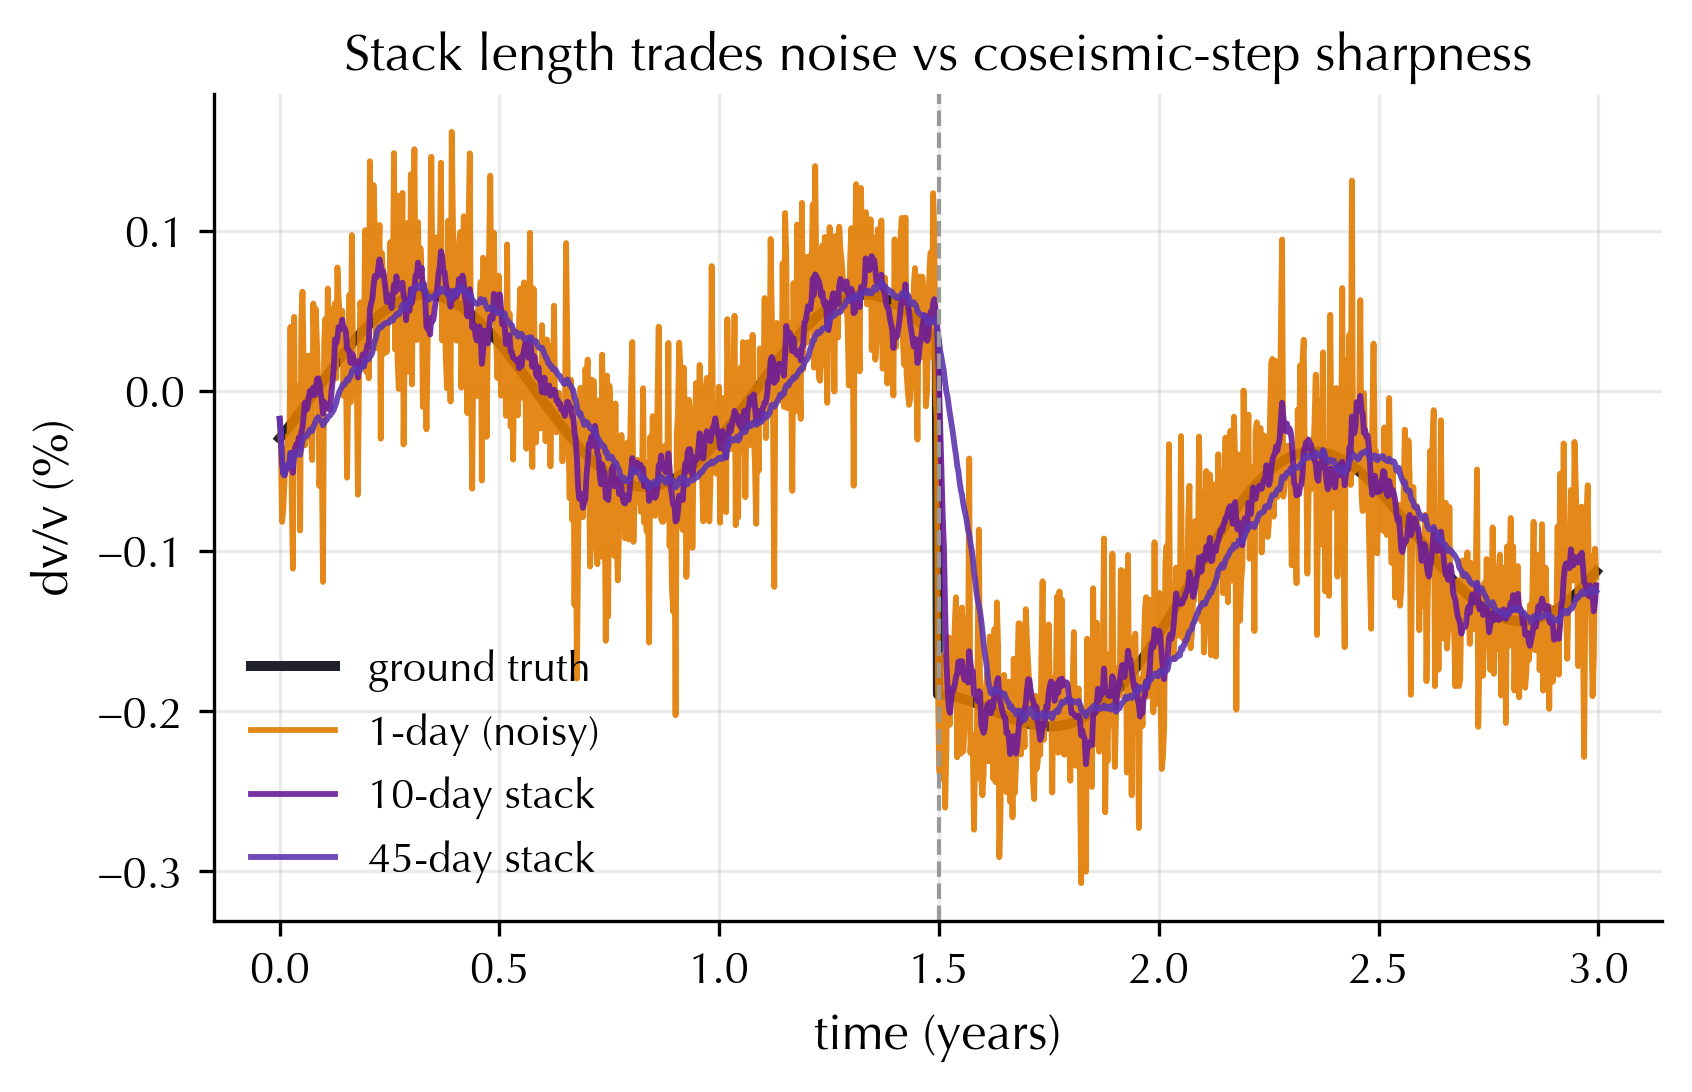
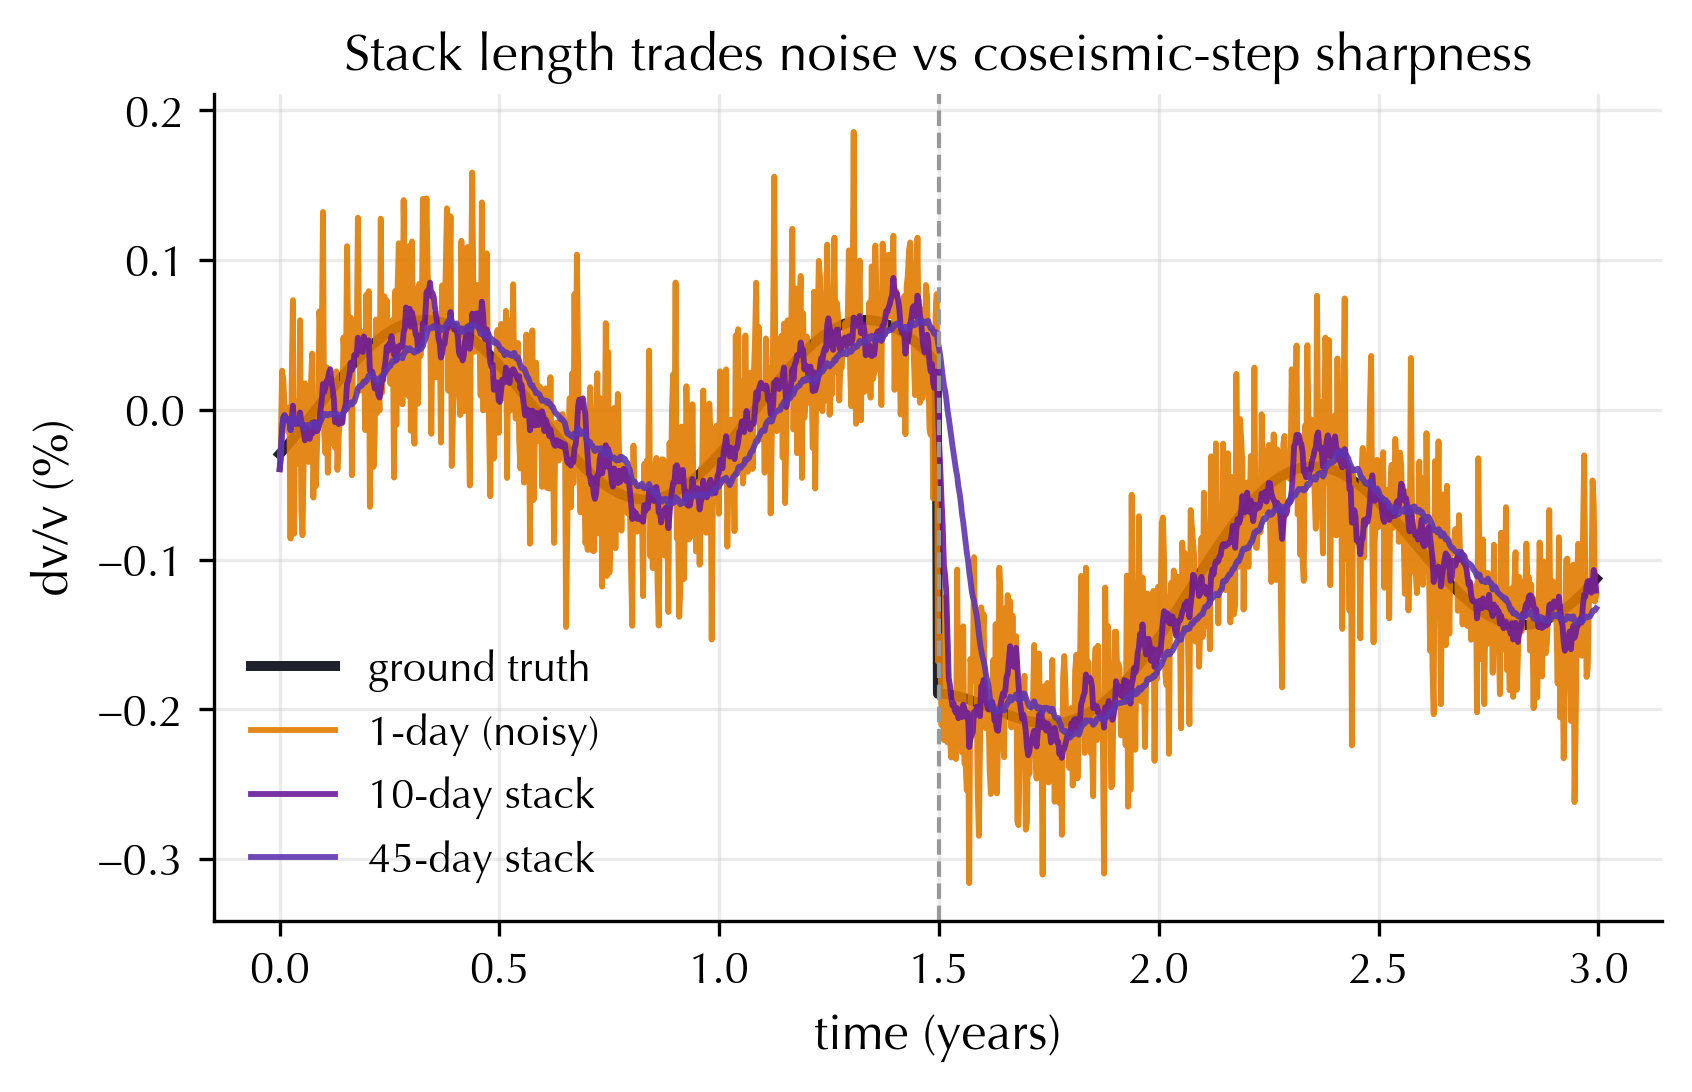
Regenerate all synthetic demo figures under v0.4.0 physical dv/v; re-verify every quantitative claim
Every one of the 15 synthetic demo figures predated the v0.4.0 sign
fix (flagged in PR #37, not fixed there). impose_dvv changed from
t/(1+dvv) to t*(1+dvv) -- a different nonlinear map, not a pure sign
negation -- so regenerating could plausibly change specific numbers,
not just axis labels. Regenerated all 14 figures actually referenced
in the manuscript (literature/synthetic_dvv_demo.py,
codameter.deviations.build_figs, codameter.uq_bayes.build_figs;
demo_9_multiverse.png also regenerated but stays unreferenced/orphaned
as before) and re-derived every quantitative claim tied to them
directly from the current code rather than eyeballing the new plots.

Real changes found and fixed, not just cosmetic:

- Fig. methods (demo_1): the +/-5% sweep now shows genuine sign
  asymmetry for WCC and WTDTW -- WCC tracks the 1:1 line tightly on
  the negative branch but breaks sharply near +5%; WTDTW crosses 1%
  error at +1% true dv/v but only at -3% on the other branch. This is
  real physics from the corrected nonlinear convention, not noise.
  Rewrote the caption and body paragraph with per-branch thresholds
  instead of the old (now false) claim that TS/WTS/WCC "track the 1:1
  line throughout" and that DTW/WTDTW break symmetrically past +/-3-4%.
- Fig. deviations (demo_10) + multiverse text: the deviation ranking
  reordered substantially -- WCS is now catastrophic (~50x baseline,
  not previously flagged this way), baseline RMS moved from ~0.02% to
[…]

diff --git a/paper/manuscript_marine.tex b/paper/manuscript_marine.tex
@@ -548,8 +548,8 @@ its own dedicated synthetic scenario (see the cross-referenced subsection).}
 \toprule
 \textbf{Axis} & \textbf{Best-case RMS} & \textbf{Worst-case RMS} & \textbf{Section} \\
 \midrule
-Estimator (family split) & $<\!0.01\,\%$ (TS/WTS, up to 5\,\% true \dvv) &
-cycle-skip $>\!0.5\,\%$ past $\sim\!1.4\,\%$ true \dvv\ (MWCS) &
+Estimator (family split) & $<\!0.01\,\%$ (TS, up to 5\,\% true \dvv) &
+cycle-skip $>\!0.5\,\%$ past $\sim\!1.5\,\%$ true \dvv\ (MWCS) &
 Section~\ref{sec:methods-fig} \\ \hline
 Cross-component aggregation & $\sim\!0.03\,\%$ (Approach B, averaged images) &
 $\sim\!0.31\,\%$ (Approach A, unweighted) & Section~\ref{sec:aggregation} \\ \hline
@@ -558,8 +558,8 @@ $\sim\!0.05\,\%$ (individual-pair range) & Section~\ref{sec:uncertainty} \\ \hli
 Frequency band & $\sim\!0.003$--$0.03\,\%$ (matched to depth) &
 $\sim\!0.10\,\%$ (mismatched) & Section~\ref{sec:params} \\ \hline
 Coda window & $\sim\!0.01\,\%$ (adapted to band) &
-$\sim\!3.8\,\%$ (fixed, wrong band) & Section~\ref{sec:window} \\ \hline
-Reference scheme & $\sim\!0.03$--$0.04\,\%$ (fixed stack / joint inversion) &
+$\sim\!3.9\,\%$ (fixed, wrong band) & Section~\ref{sec:window} \\ \hline
+Reference scheme & $\sim\!0.03\,\%$ (fixed stack / joint inversion) &
 $\sim\!0.16\,\%$ (60-day moving) & Section~\ref{sec:params} \\ \hline
 Stack length & $\sim\!0.018\,\%$ (10-day) &
 $\sim\!0.044\,\%$ (1-day, noisy) & Section~\ref{sec:params} \\
@@ -598,26 +598,36 @@ the \dvv~measurements for larger strain changes.
   \includegraphics[width=\textwidth]{demo_1_methods.png}
   \caption{Estimator choice across the seven NoisePy methods. (a) Clean,
   small \dvv: all agree. (b) The same clean recovery swept over $\pm 5\,\%$
-  true \dvv: MWCS cycle-skips almost immediately past $\pm 1$--$2\,\%$, DTW/WTDTW
-  break past $\pm 3$--$4\,\%$, WCS degrades smoothly, while TS/WTS/WCC track the
-  1:1 line throughout. (c) Large, noisy \dvv\ (a pre-failure landslide signal):
+  true \dvv: MWCS cycle-skips past $\sim\!1.5\,\%$ on either branch; TS and WTS
+  track the 1:1 line throughout; WCC tracks just as tightly on the negative
+  branch but breaks sharply near the positive edge; DTW and WTDTW break
+  asymmetrically, WTDTW near $+1\,\%$ but only near $-3\,\%$ on the other
+  branch; WCS degrades smoothly, crossing $1\,\%$ error beyond $\pm 4\,\%$.
+  (c) Large, noisy \dvv\ (a pre-failure landslide signal):
   MWCS cycle-skips, 2-D-unwrapped WCS and the stretching family track, the
   warping methods under-shoot.}
   \label{fig:methods}
 \end{figure}
 
-On a clean, noiseless sweep of true \dvv~from 0 to 5,\%
+On a clean, noiseless sweep of true \dvv~from \(-5\) to \(5\,\%\)
 (Fig.\textasciitilde{}\ref{fig:methods}b), the phase-wrapped MWCS
-estimator is the first to break: its error stays below \(0.1\,\%\) up to
-a true \dvv~of \(\sim\!1.2\,\%\), then jumps discontinuously past
-\(0.5\,\%\) error by \(\sim\!1.4\,\%\) true \dvv~--- the cycle-skip. The
-stretching family (TS, WTS) stays below \(0.01\,\%\) error out to the
-full 5,\% tested, and WCC stays below \(0.1\,\%\); the warping methods
-(DTW, WTDTW) are accurate at small \dvv~but develop intermittent, large
-(\(>\!1\,\%\)) errors from \(\sim\!3\,\%\) true \dvv~onward as the warp
-path becomes ill-conditioned, while WCS degrades smoothly rather than
-catastrophically, crossing \(1\,\%\) error only beyond \(\sim\!4\,\%\)
-true \dvv.
+estimator is the first to break on either branch: its error stays below
+\(0.1\,\%\) out to \(\sim\!1.3\,\%\) true \dvv, then exceeds \(1\,\%\)
+error by \(\sim\!1.5\,\%\) --- the cycle-skip, essentially symmetric in
+sign. The stretching family (TS, WTS) stays below \(0.1\,\%\) error out
+to the full \(5\,\%\) tested, on both branches. WCC is just as accurate
+on the negative branch (error stays below \(0.1\,\%\) throughout) but
+breaks sharply on the positive branch, crossing both \(0.1\,\%\) and
+\(1\,\%\) error abruptly at the edge of the tested range
+(\(\sim\!4.75\,\%\)) --- a sign asymmetry from the physical convention
+itself (Section\textasciitilde{}\ref{sec:intro}), not a processing
+artefact. The warping methods develop large (\(>\!1\,\%\)) errors
+asymmetrically as the warp path becomes ill-conditioned: WTDTW crosses
+\(1\,\%\) error already at \(\sim\!1\,\%\) true \dvv~on the positive
+branch but only at \(\sim\!3\,\%\) on the negative branch, and DTW
+crosses at \(\sim\!2.5\,\%\) versus \(\sim\!3\,\%\). WCS degrades
+smoothly rather than catastrophically, crossing \(1\,\%\) error beyond
+\(\pm4\,\%\) true \dvv~on either branch.
 
 \subsection{Aggregating cross-component results}\label{sec:aggregation}
 
@@ -742,9 +752,9 @@ re-baselines continuously and erases slow trends that a fixed reference
 or a joint inversion \citep{Brenguier2014} preserve
 (Fig.\textasciitilde{}\ref{fig:params}c). On the volcano synthetic, a
 fixed total-stack reference gives RMS \(\sim\!0.03\,\%\) and a
-Brenguier-style joint inversion \(\sim\!0.04\,\%\) (both preserve the
-pre-eruptive trend), while a 60-day moving reference gives RMS
-\(\sim\!0.16\,\%\) --- roughly 4--5\(\times\) worse --- because it
+Brenguier-style joint inversion a comparable \(\sim\!0.03\,\%\) (both
+preserve the pre-eruptive trend), while a 60-day moving reference gives
+RMS \(\sim\!0.16\,\%\) --- roughly \(5\times\) worse --- because it
 re-baselines away the very trend being measured.
 
 The \textbf{stacking length} trades noise against temporal resolution,
@@ -779,14 +789,15 @@ The \textbf{reference} choice also has a construction axis beyond
 fixed-versus-moving: how much of the record a ``fixed'' reference
 actually stacks. On the volcano synthetic, a reference built from the
 whole pre-eruptive record gives RMS \(\sim\!0.03\,\%\), one built from
-only the earliest 15,\% of that record (an ``early stack,'' noisier for
-having fewer days) gives \(\sim\!0.04\,\%\) (\(\sim\!1.5\times\) worse),
-a 60-day moving stack gives \(\sim\!0.16\,\%\) (erasing the trend, as
-above), and the Brenguier-style joint inversion \citep{Brenguier2014}
-gives \(\sim\!0.04\,\%\) while additionally preserving the trend --- so
-among the reference-construction choices, whole-period and joint
-inversion are comparably good, early-stacking is a modest
-(\(\sim\!1.5\times\)) noise penalty, and only the moving reference
+only the earliest 15,\% of that record (an ``early stack'') gives a
+comparable \(\sim\!0.03\,\%\) --- a shorter, earlier reference is not
+automatically worse: it avoids averaging across the developing
+pre-eruptive trend the way a longer stack does. A 60-day moving stack
+gives \(\sim\!0.16\,\%\) (erasing the trend, as above), and the
+Brenguier-style joint inversion \citep{Brenguier2014} gives
+\(\sim\!0.03\,\%\) while additionally preserving the trend --- so among
+the reference-construction choices, whole-period, early, and joint
+inversion are all comparably good, and only the moving reference
 actively destroys signal.
 
 \subsection{Coda window and its covariation with frequency
@@ -801,7 +812,7 @@ floor much sooner than low-frequency coda: a coda window that is well
 past the direct arrival for a \(\sim\!0.3\)--\(0.8\,\)Hz band is, at
 \(\sim\!3\)--\(6\,\)Hz, sampling almost pure noise
 (Fig.\textasciitilde{}\ref{fig:params}b). On our synthetic, a fixed
-20--40\(\,\)s window at the high band gives RMS error \(\sim\!3.8\,\%\)
+20--40\(\,\)s window at the high band gives RMS error \(\sim\!3.9\,\%\)
 (the noise floor, not the signal), while a window hand-adapted to the
 band (3--12\(\,\)s) recovers the truth at \(\sim\!0.01\,\%\) --- nearly
 a 400\(\times\) difference from this one choice alone. This is itself an
@@ -829,10 +840,10 @@ interacts with each band's filter, not a claim that the detector is
 exact). Recovering \dvv~with each band's own detected window instead of
 one universal fixed (10--30\(\,\)s) window
 (Fig.\textasciitilde{}\ref{fig:window-envelope}b) gives RMS
-\(\sim\!0.032\,\%\) vs.~\(\sim\!0.036\,\%\) at the low band (a modest,
-\(\sim\!1.1\times\) gain), \(\sim\!0.017\,\%\) vs.~\(\sim\!0.035\,\%\)
-at the mid band (\(\sim\!2\times\)), and \(\sim\!0.019\,\%\)
-vs.~\(\sim\!1.8\,\%\) at the high band (\(\sim\!93\times\)) --- the
+\(\sim\!0.030\,\%\) vs.~\(\sim\!0.036\,\%\) at the low band (a modest,
+\(\sim\!1.2\times\) gain), \(\sim\!0.017\,\%\) vs.~\(\sim\!0.035\,\%\)
+at the mid band (\(\sim\!2\times\)), and \(\sim\!0.020\,\%\)
+vs.~\(\sim\!2.0\,\%\) at the high band (\(\sim\!100\times\)) --- the
 fixed window is adequate at low frequency and catastrophic at high
 frequency, while the envelope-derived window is close to the best
 achievable at every band without ever being told what band it is
@@ -959,13 +970,16 @@ as distilled in our survey), we change one parameter at a time to a
 deviation from best practice documented in the literature and measure
 the resulting error against the known truth
 (Fig.\textasciitilde{}\ref{fig:deviations}). The ranking is unambiguous:
-relative to a best-practice RMS error of \(\sim\!0.02\,\%\), an
-unwrapped phase estimator that cycle-skips is catastrophic, a moving
-reference and a wrapped-phase MWCS each inflate the error roughly an
-order of magnitude, an over-long stack and a late low-SNR window distort
-the co-eruptive drop, while the frequency band (which mostly sets
-precision here) and the gating are second-order. The joint inversion is
-nearly as good as the fixed reference and preserves the trend.
+relative to a best-practice RMS error of \(\sim\!0.03\,\%\), the
+two-dimensionally-unwrapped WCS estimator is catastrophic here
+(\(\sim\!50\times\) worse), a wrapped-phase MWCS inflates the error by
+roughly an order of magnitude (\(\sim\!12\times\)), and DTW by
+\(\sim\!6\times\); among the non-estimator choices a moving reference is
+worst (\(\sim\!5\times\), and most distorts the recovered drop), while
+stack length, coda window, and frequency band deviations are each more
+modest (\(1.5\)--\(2.5\times\)). The joint-inversion reference stays
+closest to the fixed-reference baseline among the reference-scheme
+deviations.
 
 \begin{figure}
   \centering
@@ -994,12 +1008,14 @@ the known truth spans over two orders of magnitude across pipelines
 Attributing the variance of the outcome to each axis with a first-order
 (main-effect) sensitivity index
 (Fig.\textasciitilde{}\ref{fig:multiverse}b) shows that, for this
-dataset, the \textbf{coda window and the stack length} control the RMS
-error most, the \textbf{stack length} dominates the recovered drop
-amplitude, and the estimator is third; the first-order indices sum to
-well under one, so a large part of the spread is \emph{interaction}
-between choices compounding. The appropriate object is therefore not a
-single curve but a distribution of \dvv~over the processing choices.
+dataset, the \textbf{coda window} controls the RMS error most, with the
+estimator second and the stack length third; for the recovered drop
+amplitude the order changes to \textbf{stack length} first, window
+second, and estimator third. The first-order indices sum to well under
+one in both cases (\(\sim\!0.66\) for RMS, \(\sim\!0.63\) for the drop),
+so a large part of the spread is \emph{interaction} between choices
+compounding. The appropriate object is therefore not a single curve but
+a distribution of \dvv~over the processing choices.
 
 \begin{figure}
   \centering
@@ -1008,8 +1024,9 @@ single curve but a distribution of \dvv~over the processing choices.
   each coloured by its RMS error against the truth on a colourblind-safe scale
   (bright accurate, dark biased; the worst run off the clipped axis); the grey band
   is the 10--90\% inter-pipeline spread, widest at the velocity drop. (b) First-order variance attribution: which
-  choice controls the RMS error and the recovered drop. Window and stack length
-  dominate; the sub-unity sum signals strong interactions.}
+  choice controls the RMS error and the recovered drop. Window, estimator, and
+  stack length dominate, in that order for RMS and reordered for the drop;
+  the sub-unity sum signals strong interactions.}
   \label{fig:multiverse}
 \end{figure}
 
